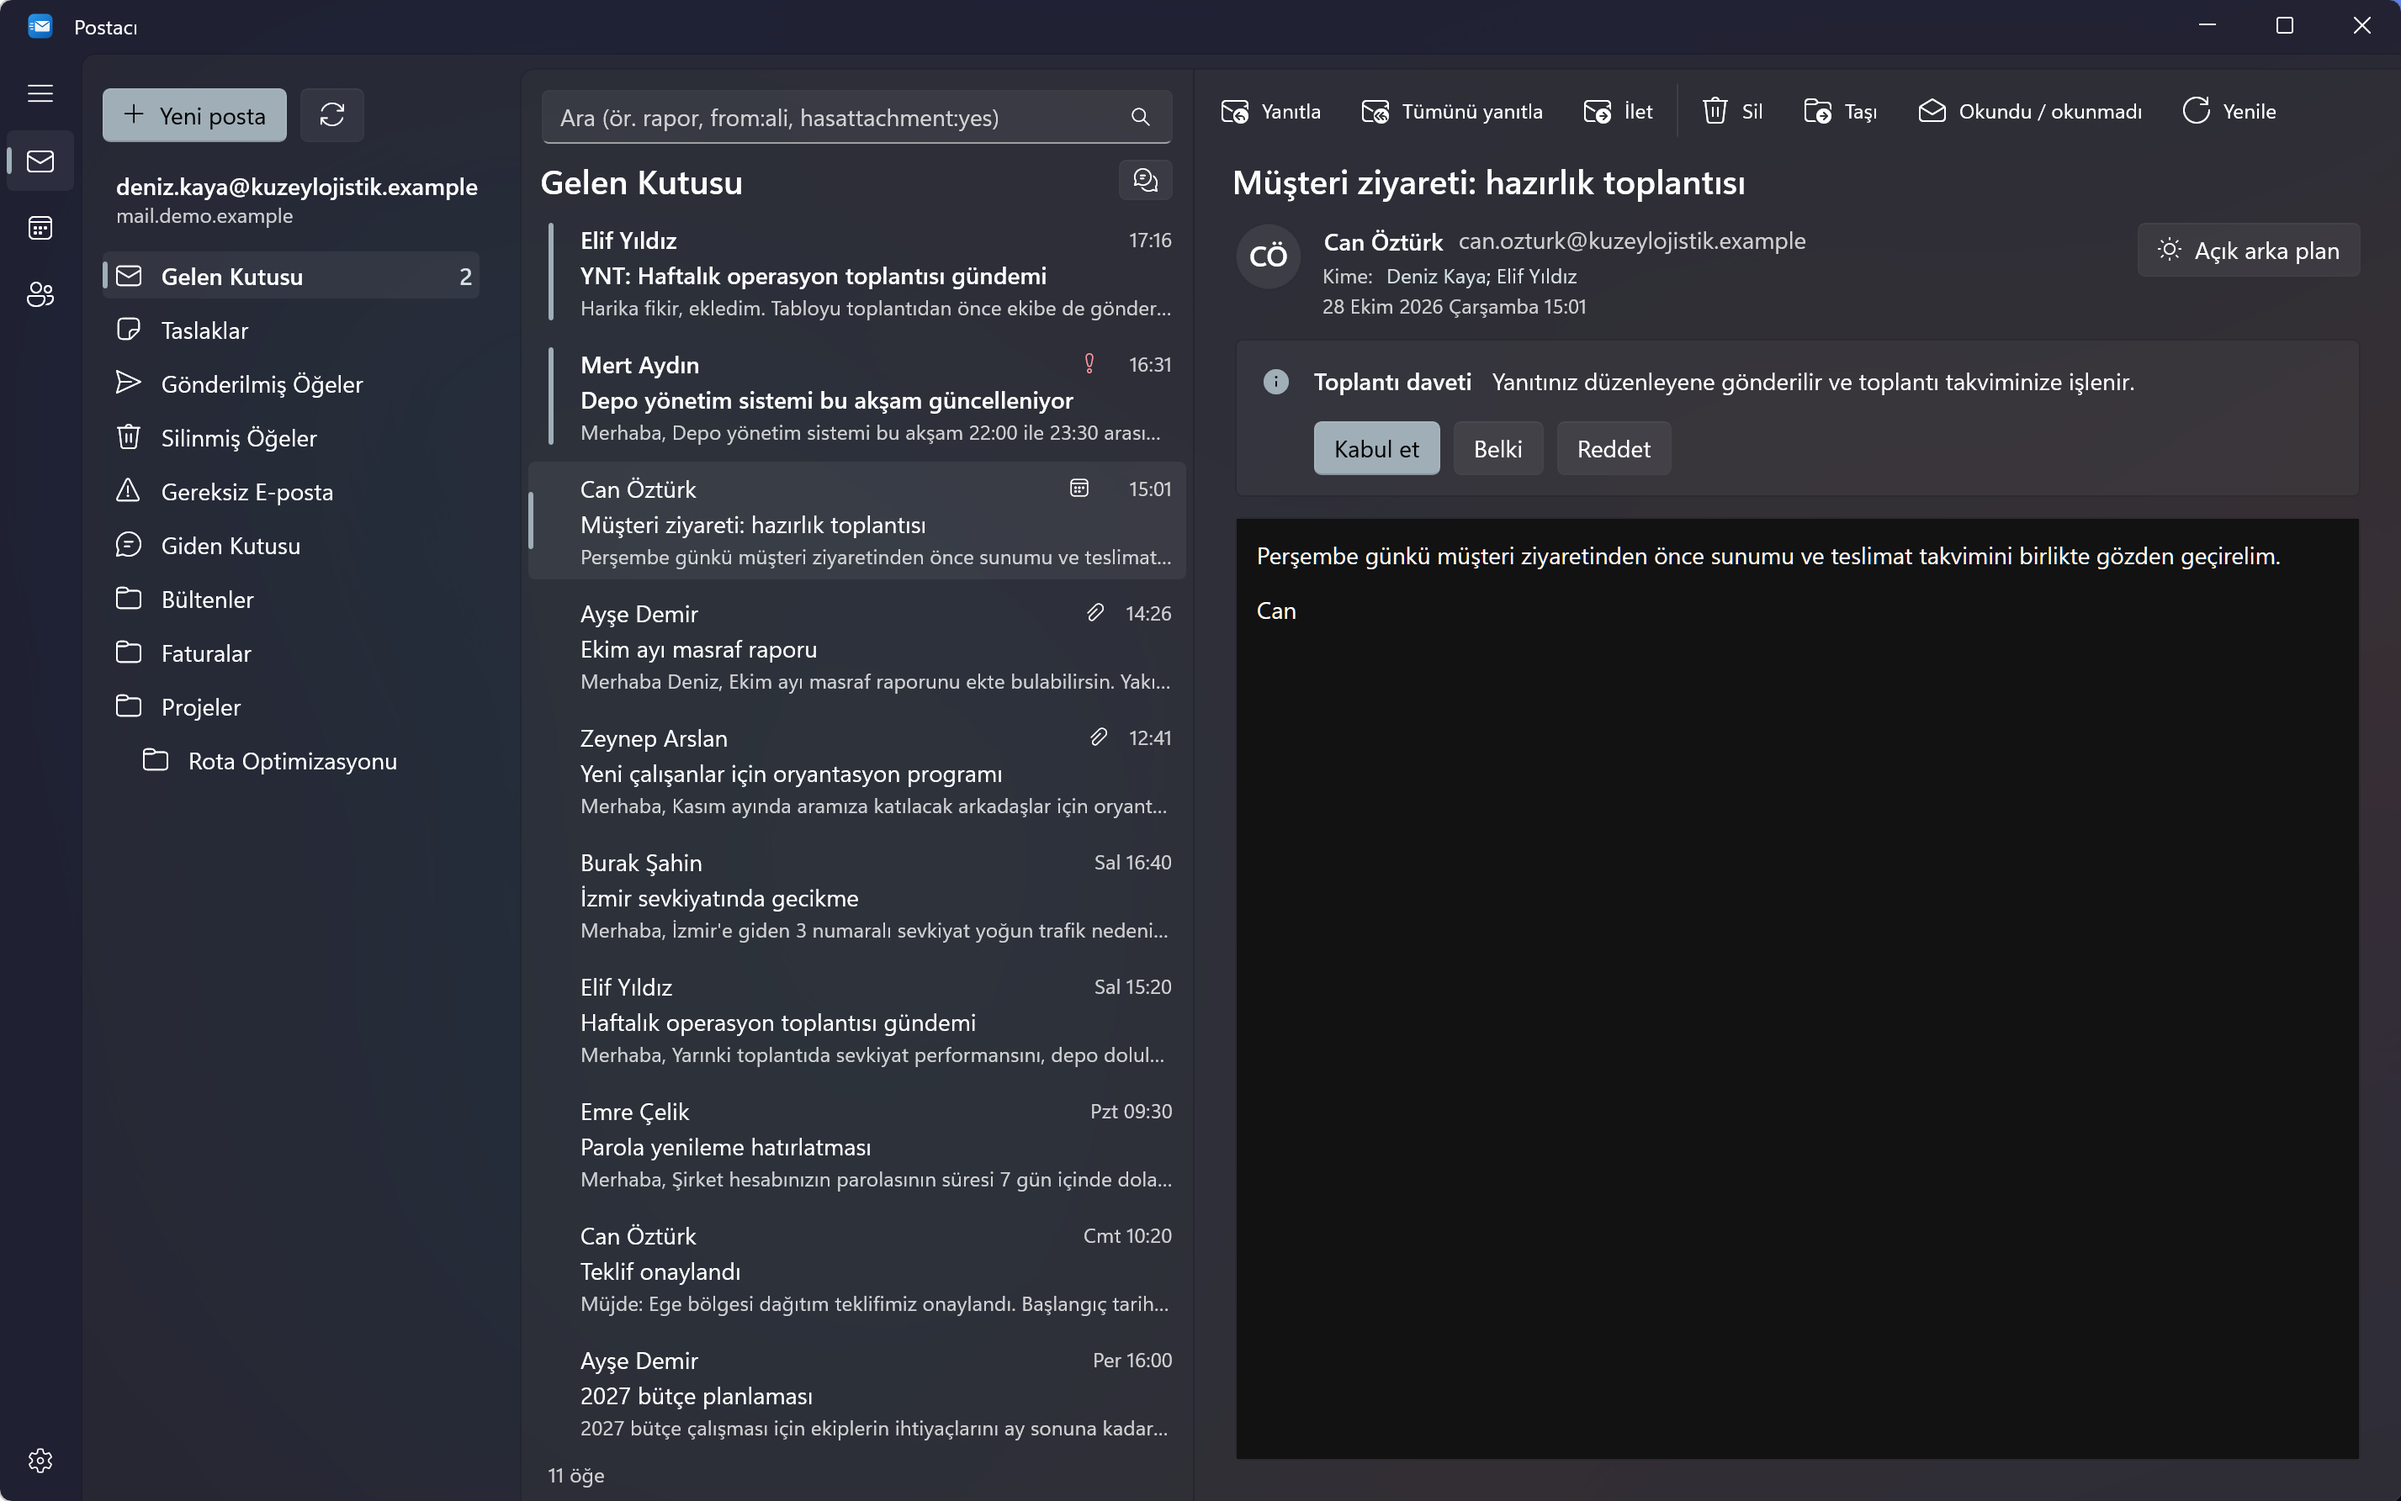
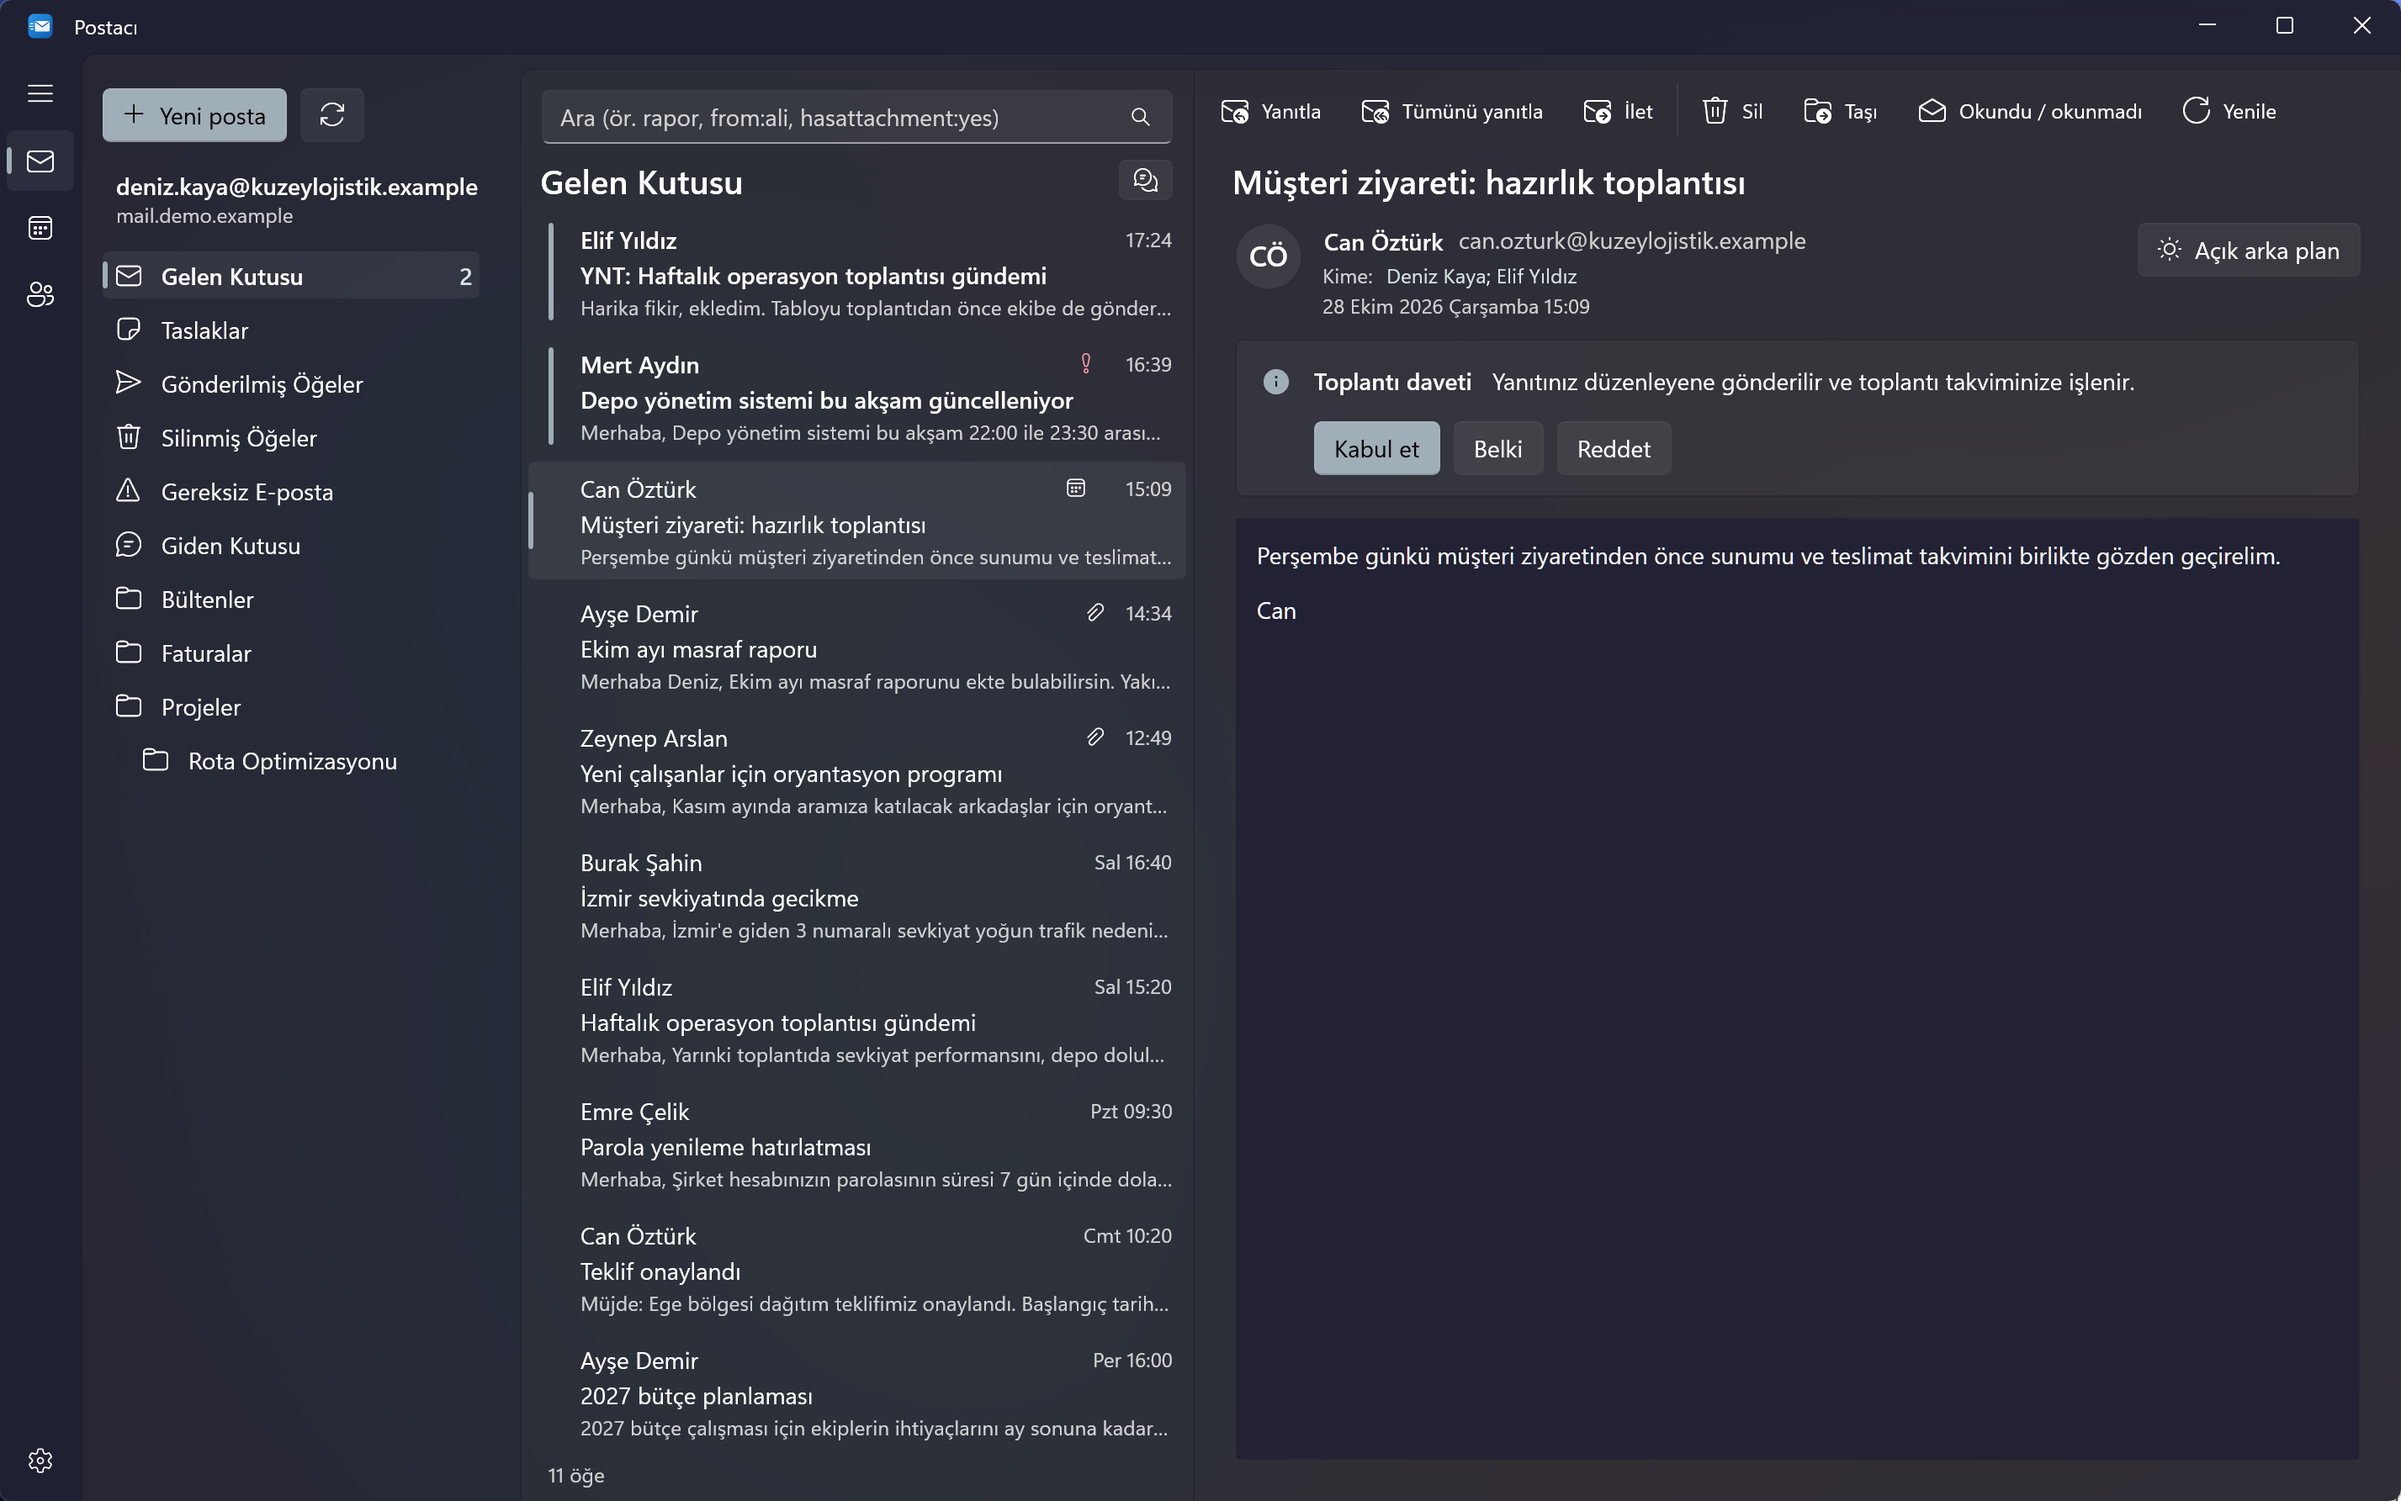
Koyu ileti zemini uygulamanın koyu tonunda
Koyu ileti gövdeleri ve düzenleyiciler Chromium'un neredeyse siyah
zeminini (#121212) kullanıyordu. Artık koyu temanın en koyu tonu, Mica'nın
koyu rengi #222234 kullanılıyor (MailFormat.DarkPageBackground,
AppBackdrop.DarkTint). İletinin kendi html arka planı varsa o geçerli.
Store ekran görüntüleri yeniden çekildi.

Changed region(s): [[0.4989, 0.3389, 0.9979, 0.986], [0.9979, 0.986, 1.0, 1.0], [0.4678, 0.3081, 0.4989, 0.3389]]

diff --git a/src/ExchangeMail.App/Helpers/WebViewTheme.cs b/src/ExchangeMail.App/Helpers/WebViewTheme.cs
@@ -2,7 +2,6 @@ using Microsoft.UI;
 using Microsoft.UI.Xaml;
 using Microsoft.UI.Xaml.Controls;
 using Microsoft.Web.WebView2.Core;
-using Windows.UI;
 
 namespace ExchangeMail.App.Helpers;
 
@@ -13,9 +12,6 @@ namespace ExchangeMail.App.Helpers;
 /// </summary>
 internal static class WebViewTheme
 {
-    /// <summary>The dark canvas Chromium paints for color-scheme: dark, so nothing flashes white before a page loads.</summary>
-    private static readonly Color DarkCanvas = Color.FromArgb(0xFF, 0x12, 0x12, 0x12);
-
     public static bool IsDark(FrameworkElement element) =>
         App.Preferences.DarkMessageBodies && element.ActualTheme == ElementTheme.Dark;
 
@@ -25,7 +21,8 @@ internal static class WebViewTheme
     /// </summary>
     public static void Apply(WebView2 view, bool darkPage)
     {
-        view.DefaultBackgroundColor = darkPage ? DarkCanvas : Colors.White;
+        // The page's own dark background (not Chromium's near-black canvas), so nothing flashes before a page loads.
+        view.DefaultBackgroundColor = darkPage ? AppBackdrop.DarkTint : Colors.White;
         if (view.CoreWebView2 is { } core)
             core.Profile.PreferredColorScheme = IsDark(view) ? CoreWebView2PreferredColorScheme.Dark : CoreWebView2PreferredColorScheme.Light;
     }

diff --git a/src/ExchangeMail.ViewModels/MailFormat.cs b/src/ExchangeMail.ViewModels/MailFormat.cs
@@ -71,6 +71,9 @@ public static partial class MailFormat
 
     public static bool HasRemoteContent(string html) => RemoteReference().IsMatch(html);
 
+    /// <summary>Background of dark message bodies and editors: the dark theme's darkest tone (AppBackdrop's dark tint).</summary>
+    public const string DarkPageBackground = "#222234";
+
     /// <summary>The color scheme a message body is shown in.</summary>
     public enum PageColorScheme
     {
@@ -140,7 +143,9 @@ public static partial class MailFormat
         var css = new StringBuilder();
         css.Append(scheme switch
         {
-            PageColorScheme.Dark => ":root{color-scheme:light dark}",
+            // The app's dark tone instead of the browser's near-black canvas. :where() keeps it below any background
+            // the message gives html itself; a body background of its own still shows over it.
+            PageColorScheme.Dark => $":root{{color-scheme:light dark}}:where(html){{background:{DarkPageBackground}}}",
             // :where() keeps this below any background the message gives html itself.
             PageColorScheme.Light => ":root{color-scheme:light}:where(html){background:#fff}",
             _ => "",

diff --git a/src/ExchangeMail.App/Controls/HtmlEditor.cs b/src/ExchangeMail.App/Controls/HtmlEditor.cs
@@ -100,7 +100,8 @@ public sealed partial class HtmlEditor : UserControl
         var dark = Helpers.WebViewTheme.IsDark(_web);
         Helpers.WebViewTheme.Apply(_web, dark);
         return _web.CoreWebView2.ExecuteScriptAsync(
-            $"document.documentElement.style.colorScheme = {Json(dark ? "dark" : "light")};").AsTask();
+            $"document.documentElement.style.colorScheme = {Json(dark ? "dark" : "light")};" +
+            $"document.documentElement.style.background = {Json(dark ? ViewModels.MailFormat.DarkPageBackground : "")};").AsTask();
     }
 
     /// <summary>Uses the compose font from Settings (the same font wraps the message when it is sent).</summary>

diff --git a/src/ExchangeMail.App/Helpers/AppBackdrop.cs b/src/ExchangeMail.App/Helpers/AppBackdrop.cs
@@ -13,7 +13,8 @@ namespace ExchangeMail.App.Helpers;
 /// </summary>
 public sealed partial class AppBackdrop : SystemBackdrop
 {
-    private static readonly Color DarkTint = Color.FromArgb(0xFF, 0x22, 0x22, 0x34);
+    /// <summary>The darkest tone of the dark theme; dark message bodies use it too (MailFormat.DarkPageBackground).</summary>
+    internal static readonly Color DarkTint = Color.FromArgb(0xFF, 0x22, 0x22, 0x34);
     private static readonly Color DarkFallback = Color.FromArgb(0xFF, 0x24, 0x24, 0x36);
 
     private MicaController? _mica;
